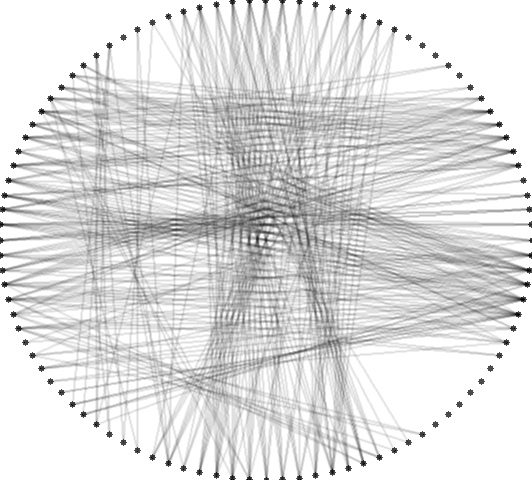
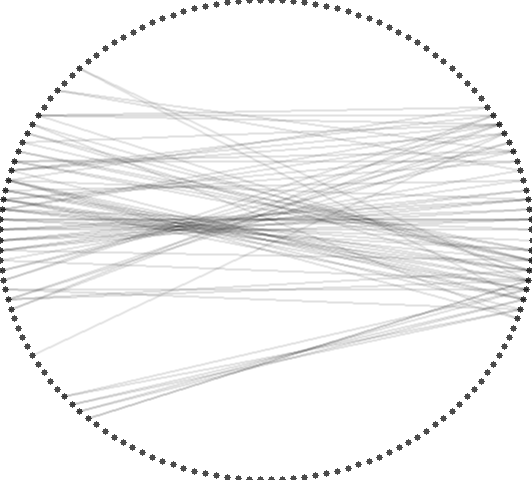
Efficient Storage of Line

diff --git a/Spinboard.py b/Spinboard.py
@@ -2,6 +2,7 @@ import math
 import random
 import numpy as np
 import cv2
+from scipy.sparse import csr_matrix
 
 '''
 Progression:
@@ -85,6 +86,16 @@ class Spinboard:
             self.numNails = len(self.nails)
         # print("Number of lines: ", len(self.lines), "Should be summation of digits up to numNails: ", self.numNails)
 
+    def convertToMatrix(self, image):
+        return image[:, :, 3]
+
+    def convertToImage(self, matrix):
+        height, width = matrix.shape
+        image = np.zeros((height, width, 4), dtype=np.uint8)
+        image[:, :, 3] = matrix
+        cv2.imwrite("Test.png", image)
+        return image
+
     def display(self):
         cv2.imwrite(self.resultImage, self.image)
 
@@ -97,10 +108,11 @@ class Spinboard:
         if (addLines):
             color = (0, 0, 0, 64)
             thickness = 1
-            whiteImage = np.zeros((self.width, self.height, 4), dtype=np.uint8)
             for nail in self.nails:
-                lineImage = cv2.line(whiteImage.copy(), (nail[0], nail[1]), (newNail[0], newNail[1]), color, thickness)
+                whiteImage = np.zeros((self.width, self.height, 4), dtype=np.uint8)
+                lineImage = cv2.line(whiteImage, (nail[0], nail[1]), (newNail[0], newNail[1]), color, thickness)
                 lineImage = cv2.GaussianBlur(lineImage, (3, 3), 0)
+                lineImage = self.convertToMatrix(lineImage)
                 self.lines[((nail[0], nail[1]), (newNail[0], newNail[1]))] = lineImage
         self.nails.append(newNail)
         self.currentNail = newNail
@@ -134,7 +146,7 @@ class Spinboard:
         return self.lineHeuristic(line[1])
     
     def lineHeuristic(self, line):
-        alpha = line[:, :, 3] / 255
+        alpha = line / 255
         goalAlpha = self.goalImage[:, :, 3] / 255
         weightedAlpha = self.weights[:, :, 3] / 255
 
@@ -142,7 +154,7 @@ class Spinboard:
     
     def subtractLine(self, line):
         alpha1 = self.goalImage[:, :, 3] / 255.0
-        alpha2 = line[:, :, 3] / 255.0
+        alpha2 = line / 255.0
 
         # resulting_alpha = alpha1 + alpha2 - (alpha1 * alpha2)     # This is "addition"
         resulting_alpha = alpha1 - alpha2 * .7
@@ -160,6 +172,7 @@ class Spinboard:
 
     def drawLine(self, line):
         image = self.image.copy().astype(float)
+        line = self.convertToImage(line)
         line = line.astype(float)
         
         alpha = image[:, :, 3] / 255

diff --git a/UI.py b/UI.py
@@ -11,7 +11,7 @@ class ImageDisplayApp(QMainWindow):
         super().__init__()
 
         # Handle the drawing code
-        self.image = "images/Butterfly.png"
+        self.image = "images/Monroe_crop.png"
         self.spinboard = Spinboard(self.image, nails=[])
         self.process = None
 
@@ -89,7 +89,7 @@ class ImageDisplayApp(QMainWindow):
 
     def runSpinboard(self):
         if (self.spinboard.numNails == 0):
-            self.spinboard = Spinboard(self.image, 100)
+            self.spinboard = Spinboard(self.image, 150)
             self.process = multiprocessing.Process(target=self.spinboard.drawLines, args=(1250,))
             self.process.start()
         else:
